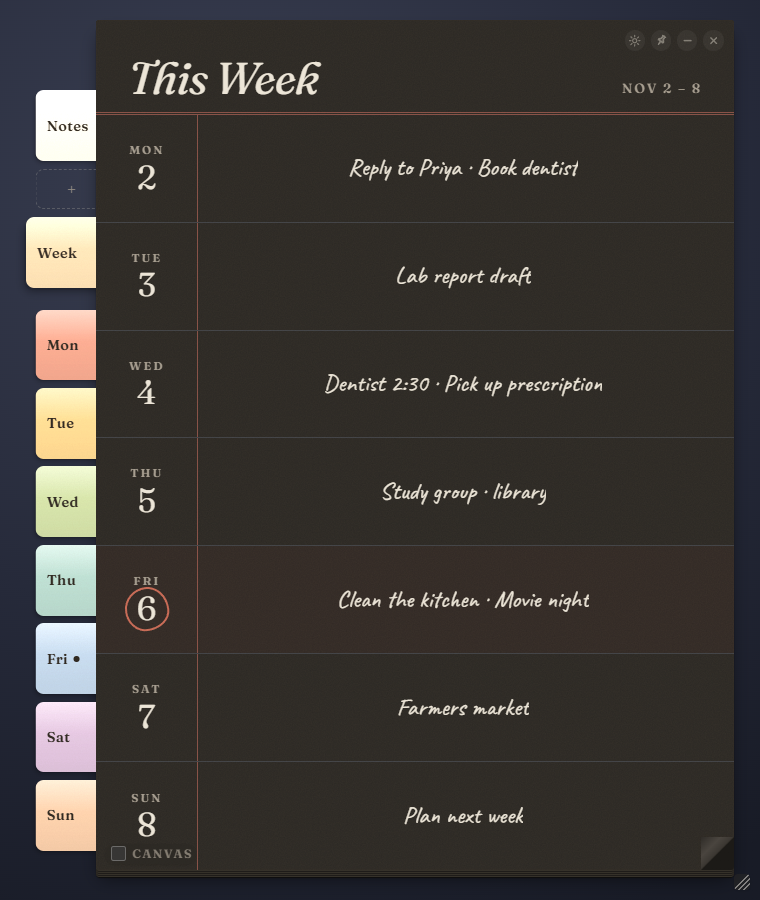
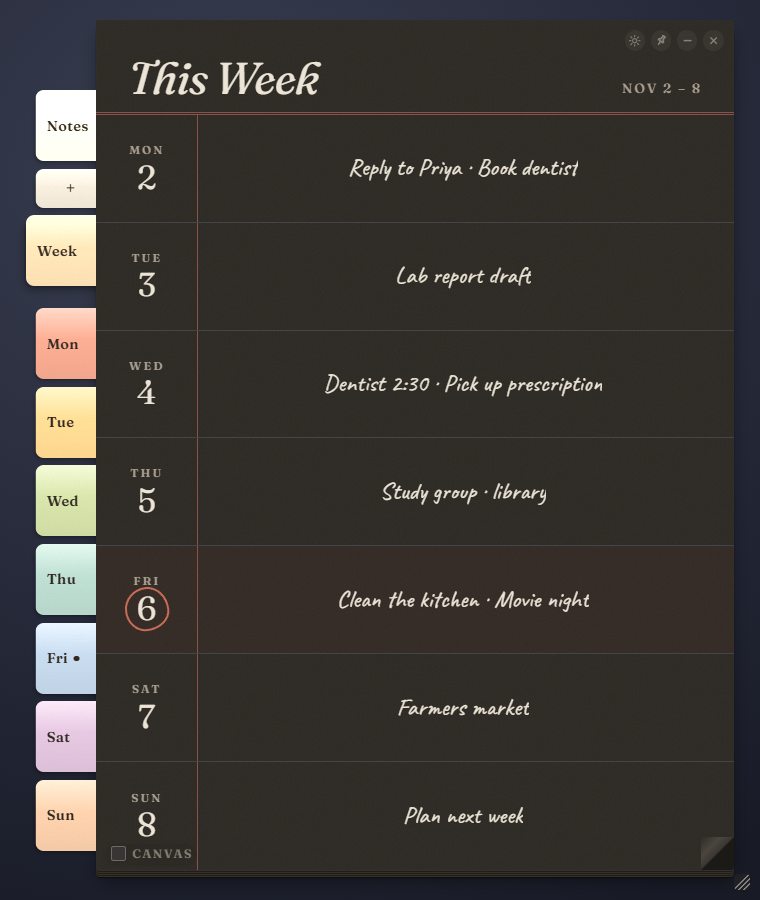
Drag handles: only the visible page's title and the strip above it; solid + tab
Every sheet has a header at the same spot, and Windows builds the drag area by
adding each sheet's rectangle in turn, so a button carved out of one sheet's
header is put back by the next sheet's. Rename and Crumple only worked while
pinned for that reason. Now only the visible page's title text and the strip
above it are drag regions, with nothing clickable inside them.

The + tab is a short solid tab like the others instead of a dashed outline.

diff --git a/styles.css b/styles.css
@@ -42,6 +42,7 @@
   --tab-sub-0: #efe6d3;
   --tab-sub-1: #e8dcc6;
   --tab-sub-2: #f2e4d1;
+  --tab-add: #dcd3c3;
   --tab-week: #d6bc93;
   --tab-mon: #e8957a;
   --tab-tue: #ecc477;
@@ -191,16 +192,18 @@ body {
 
 /* ---------- Desktop: grab the notepad anywhere but the writing lines to move it ---------- */
 
-/* The title area and the strip above it are moved by Windows itself (smoothest). A drag region
-   swallows clicks, so the buttons inside the header are carved out, and the region is switched
-   off while a settings or Canvas card is open (the card overlaps the header at small sizes).
+/* The page title and the strip above it are moved by Windows itself (smoothest). Only the
+   visible page's: every sheet has a title at the same spot, and Windows builds the drag area by
+   adding each sheet's rectangle in turn, so a button carved out of one sheet's header is put
+   back by the next sheet's. Nothing clickable sits inside these two rectangles (Rename and
+   Crumple live on the line beside the title), and the regions are switched off while a
+   settings or Canvas card is open, since the card overlaps the header at small sizes.
    The tabs and week rows have to stay clickable, so app.js moves the window from their pointer
    events instead, handing the drag to Windows once it starts. */
-.is-desktop:not(.is-pinned):not(.has-card) :is(.page-head, .drag-strip) {
+.is-desktop:not(.is-pinned):not(.has-card) .page:not([inert]) :is(.page-title, .drag-strip) {
   -webkit-app-region: drag;
 }
 
-.page-head :is(button, .sub-btn),
 .is-desktop :is(.tabs, .win-controls, .resize-grip, .canvas-bar, .card) {
   -webkit-app-region: no-drag;
 }
@@ -447,31 +450,19 @@ body {
   white-space: nowrap;
 }
 
-/* "+": adds a notes page. Always there, just below the Notes tab(s). */
+/* "+": adds a notes page. A short tab of its own, just below the Notes tab(s). */
 .tab--add {
+  --tab-color: var(--tab-add);
   flex: 0.55 1 0;
   padding-left: 0;
-  border: 1.5px dashed rgba(128, 128, 128, 0.6);
-  background-color: transparent;
-  background-image: none;
-  box-shadow: none;
-  color: var(--ink-soft);
-  font-size: clamp(13px, 2.6cqw, 18px);
-  font-weight: 500;
-  filter: none;
-  opacity: 0.8;
+  font-size: clamp(14px, 2.8cqw, 19px);
+  font-weight: 600;
 }
 
 /* Keep the + in the visible part of the tab (the right part is under the pad) */
 .tab--add .tab-label {
   width: var(--tab-out);
   text-align: center;
-}
-
-.tab--add:hover {
-  opacity: 1;
-  background-color: rgba(128, 128, 128, 0.14);
-  filter: none;
 }
 
 .tab:hover {

diff --git a/README.md b/README.md
@@ -46,7 +46,7 @@ Your password never passes through the notepad: it's typed into Canvas's own pag
 
 ## Using it
 
-- **Move it**: drag the title area or the strip above it, or drag the tabs and week rows.
+- **Move it**: drag the page's title or the strip above it, or drag the tabs and week rows.
 - **Resize it**: drag the small grip just off the pad's bottom-right corner. It keeps its proportions.
 - **Pin** (top right): locks it in place (no moving or resizing) and keeps it in front. Click again to unpin.
 - **Settings** (gear, top right): Light / Dark / System appearance, writing font (Handwritten, Serif, Sans, Mono), text size, list style, *Keep in front of other apps* (stays in front even when unpinned), and the Canvas card.
